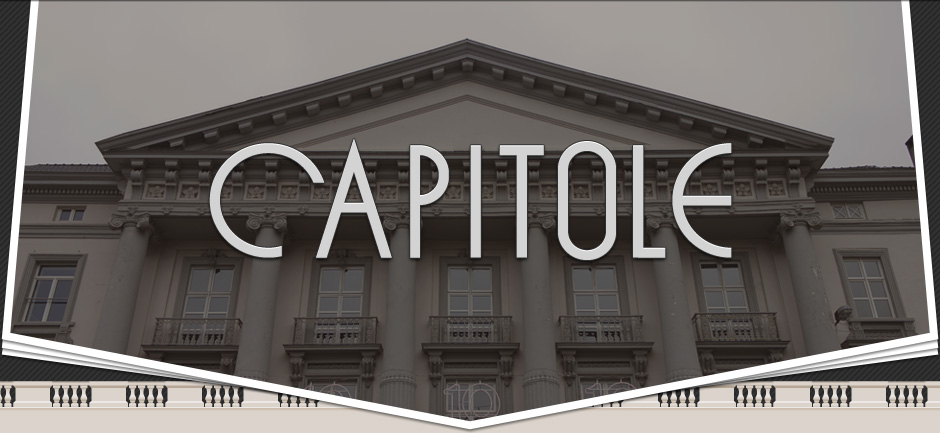
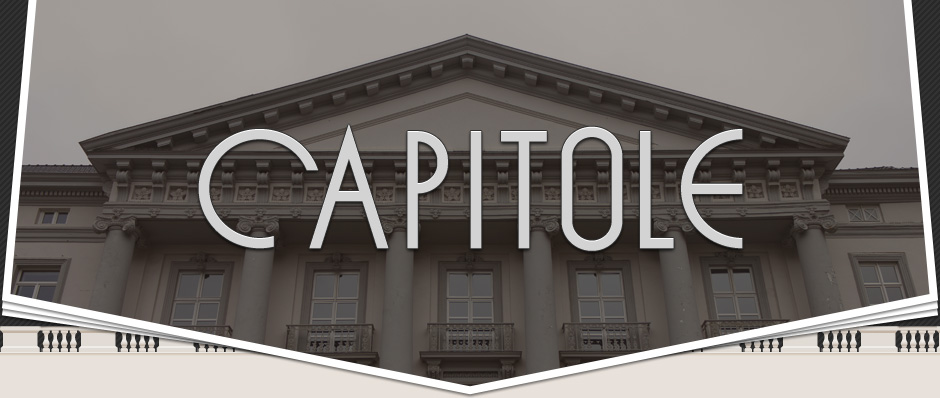
header verkleind, achtergrondkleuren gevarieerd

diff --git a/index.html b/index.html
@@ -62,41 +62,41 @@
 	    	<div id="headerafter">
 	    	</div>
 	    </header>
-	    <div class="row">
-	    	<div class="col span_4 home-circles">
-		    	<a class="vraagteken icon-what" href="#">
-		    		<span class="outer"></span>
-		    		<span class="inner">?</span>
-		    	</a>
-		    	<h1>Wat is het Capitole?</h1>
-		    	<p>
-		    		De Capitole, één van de meest gekende cultuurspots, is een gerenommeerd theater in Gent, België. Het is een prachtig gebouw in de art deco stijl dat zich bevindt op het Zuid. Op deze site kan je alles terugvinden over de geschiedenis van het gebouw, de evenementen en kan je zoeken hoe je er geraakt.
-		    	</p>
-	    	</div>
-	    	<div class="col span_4 home-circles">
-		    	<a class="afspeelteken icon-what" href="#">
-		    		<span class="outer"></span>
-		    		<span class="inner">?</span>
-		    	</a>
-		    	<h1>Media</h1>
-		    	<p>
-		    		In deze dagen van crisis let iedereen op zijn uitgaven en kan er zelfs geen enkele euro apart gezet worden voor een spektakel van de hoogste plank. Daarom willen we met deze site mensen aanmoedigen zich niet schuldig te voelen om te genieten van onze rijke cultuur. Blijf genieten van de prachtige voorstellingen en van het leven!
-		    	</p>
-	    	</div>
-	    	<div class="col span_4 home-circles">
-		    	<a class="kaart icon-what" href="#">
-		    		<span class="outer"></span>
-		    		<span class="inner">?</span>
-<!--		    		<span class="overflow"></span>-->
-		    		
-		    	</a>
-		    	<h1>Bereikbaarheid</h1>
-		    	<p>
-		    		In deze dagen van crisis let iedereen op zijn uitgaven en kan er zelfs geen enkele euro apart gezet worden voor een spektakel van de hoogste plank. Daarom willen we met deze site mensen aanmoedigen zich niet schuldig te voelen om te genieten van onze rijke cultuur. Blijf genieten van de prachtige voorstellingen en van het leven!
-		    	</p>
-	    	</div>
-	    
-	    </div>
+		    <div class="row">
+		    	<div class="col span_4 home-circles">
+			    	<a class="vraagteken icon-what" href="#">
+			    		<span class="outer"></span>
+			    		<span class="inner">?</span>
+			    	</a>
+			    	<h1>Wat is het Capitole?</h1>
+			    	<p>
+			    		De Capitole, één van de meest gekende cultuurspots, is een gerenommeerd theater in Gent, België. Het is een prachtig gebouw in de art deco stijl dat zich bevindt op het Zuid. Op deze site kan je alles terugvinden over de geschiedenis van het gebouw, de evenementen en kan je zoeken hoe je er geraakt.
+			    	</p>
+		    	</div>
+		    	<div class="col span_4 home-circles">
+			    	<a class="afspeelteken icon-what" href="#">
+			    		<span class="outer"></span>
+			    		<span class="inner">?</span>
+			    	</a>
+			    	<h1>Media</h1>
+			    	<p>
+			    		In deze dagen van crisis let iedereen op zijn uitgaven en kan er zelfs geen enkele euro apart gezet worden voor een spektakel van de hoogste plank. Daarom willen we met deze site mensen aanmoedigen zich niet schuldig te voelen om te genieten van onze rijke cultuur. Blijf genieten van de prachtige voorstellingen en van het leven!
+			    	</p>
+		    	</div>
+		    	<div class="col span_4 home-circles">
+			    	<a class="kaart icon-what" href="#">
+			    		<span class="outer"></span>
+			    		<span class="inner">?</span>
+	<!--		    		<span class="overflow"></span>-->
+			    		
+			    	</a>
+			    	<h1>Bereikbaarheid</h1>
+			    	<p>
+			    		In deze dagen van crisis let iedereen op zijn uitgaven en kan er zelfs geen enkele euro apart gezet worden voor een spektakel van de hoogste plank. Daarom willen we met deze site mensen aanmoedigen zich niet schuldig te voelen om te genieten van onze rijke cultuur. Blijf genieten van de prachtige voorstellingen en van het leven!
+			    	</p>
+		    	</div>
+		    
+		    </div>
 <!--	    <div class="row">
 	        <section class="col span_12">
 	        	<div class="media-block" id="intro">
@@ -110,25 +110,27 @@
 	        	</div>
 	        </section>
 	    </div>-->
-	    <div class="row">
-	        <section class="col" id="newsfeed">
-	        	<div class="media-block">
-			        <h1 id="titleNews"></h1>
-					<div id="news"></div>
-				</div>
-	        </section>
-	        <section class="col" id="gallery">
-	        	<div class="media-block">
-		        	<h1 id="titleMedia"></h1>
-		        	<div class="blueberry">
-		        	  <ul class="slides">
-		        	    <li><img src="content/images/blueberry1.jpg" alt="Capitole" /></li>
-		        	    <li><img src="content/images/blueberry2.jpg" alt="Capitole" /></li>
-		        	    <li><img src="content/images/blueberry3.jpg" alt="Capitole" /></li>
-		        	  </ul>
+	    <div class="header-row">
+		    <div class="row">
+		        <section class="col" id="newsfeed">
+		        	<div class="media-block">
+				        <h1 id="titleNews"></h1>
+						<div id="news"></div>
+					</div>
+		        </section>
+		        <section class="col" id="gallery">
+		        	<div class="media-block">
+			        	<h1 id="titleMedia"></h1>
+			        	<div class="blueberry">
+			        	  <ul class="slides">
+			        	    <li><img src="content/images/blueberry1.jpg" alt="Capitole" /></li>
+			        	    <li><img src="content/images/blueberry2.jpg" alt="Capitole" /></li>
+			        	    <li><img src="content/images/blueberry3.jpg" alt="Capitole" /></li>
+			        	  </ul>
+			        	</div>
 		        	</div>
-	        	</div>
-	        </section>
+		        </section>
+		    </div>
 	    </div>
 	    <footer id="footer">
 	    <div class="row">

diff --git a/_styles/default.css b/_styles/default.css
@@ -1,7 +1,7 @@
 /* @group Standard Styles */
 
 body {
-	background-color: #DBD3CB;
+	background-color: #e8e1da;
 	font-family: "Helvetica Neue", Helvetica, Arial, sans-serif;
 	font-size: 0.8125em;
 	line-height: 1.3846em;
@@ -104,7 +104,7 @@ header {
 }
 
 #capitole-header {
-	height: 433px;
+	height: 398px;
 	background: url('_assets/_images/header940.jpg') no-repeat center center;
 	margin-top: -42px;
 	position: relative;
@@ -113,10 +113,10 @@ header {
 
 #headerafter {
 	display: block;
-	height: 55px;
+	height: 30px;
 	width: 100%;
-	background: #DBD3CB url('_assets/_images/headerafter.png') repeat-x top center;
-	margin-top: -52px;
+	background: #e8e1da url('_assets/_images/headerafter.png') repeat-x top center;
+	margin-top: -72px;
 	margin-bottom: 16px;
 	position: relative;
 	z-index: 1;
@@ -202,6 +202,12 @@ header {
 	background: url('../content/images/intro.jpg') no-repeat center center;
 	width: 442px;
 	height: 251px;
+}
+
+.header-row {
+	padding-top: 20px;
+	border: 1px solid #EEE;
+	background: #DBD3CB;
 }
 
 
